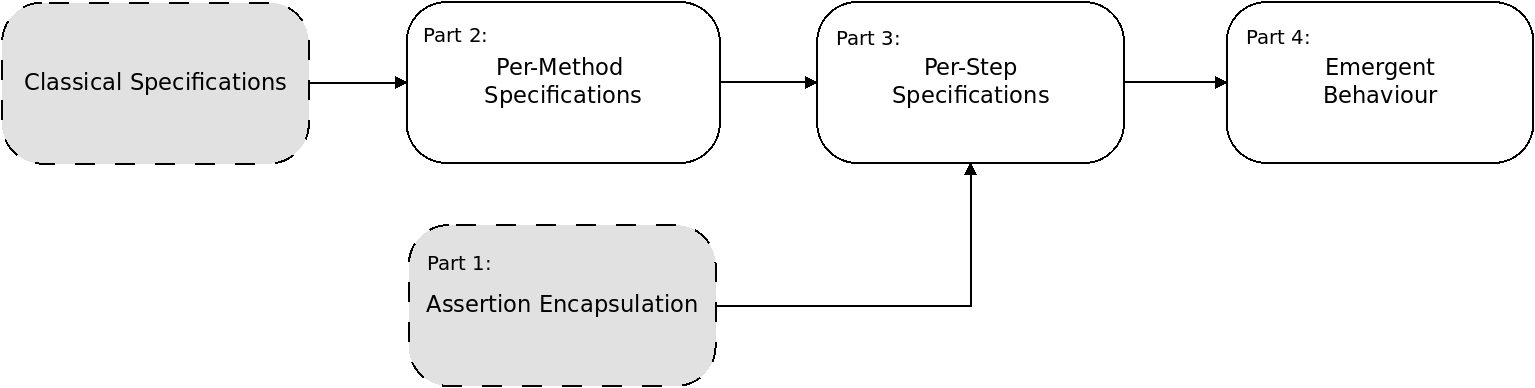
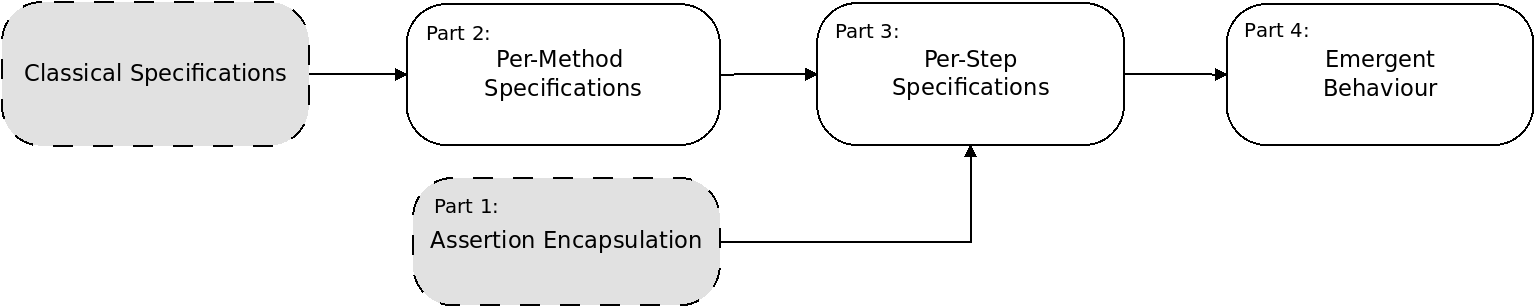
changed 2.4 -> bottom up, connections to 1.2, fixed diagram

diff --git a/popl2022/approach.tex b/popl2022/approach.tex
@@ -319,35 +319,21 @@ Note that we do not support calls from
 
 %\jm[]{Julian Proposal >>>>>>>>>>>>>>>>>>>>>}
 
-We now give a sketch of the novel concepts we developed in  \Nec logic, 
-and how they fit in with existing work in the area.
+We now give a sketch of \jm[]{how the novel concepts we developed in  \Nec logic, 
+and mentioned in \S \ref{intro:this:work} interact with each other to allow us to reason about 
+necessary conditions and emergent behaviour. \Nec logic in this 
+paper is presented bottom up, starting with specifications of individual methods
+in isolation, building up to proofs of emergent behaviour.
+While this is how \Nec logic is structured, it is not necessarily how 
+humans think about proofs. This section aims to provide a perspective of the 
+structure of the logic.}
 \jm[]{
 \Nec logic consists of 4 components:
 \begin{description}
-\item[Part 1: Emergent behaviour] \ {is behaviour that arises out 
-of any number of steps and interactions with a module interface.}
-We infer the \emph{emergent} behaviour out of the conditions of  \sd{several}
-single steps. More in \S\ref{s:emergent-proof}.
- \item[Part 2: Single-step conditions] are
- necessary conditions for a given  effect and
-a single, \emph{unspecified} step. This step could be an internal call, or any kind of external step.
-  % 
-    For effects encapsulated by $M$, we can infer such single-step
- conditions by combining the per-method conditions for that effect from 
-all   methods in $M$. More in \S\ref{s:module-proof}.
-\item[Part 3: Per-method conditions]   % \emph{per-method-condition}, \ie., a 
-are  necessary conditions for   given  effect and
-  given single, specified, method call. 
-To infer these, we  leverage   sufficient conditions 
-from classical specifications: % Namely, if 
-If the negation of a method's
- classical postcondition implies  a given effect, %the effect we are interested in,
-  then the negation of the 
- classical precondition  is a necessary precondition for the effect and the method call. 
-More in \S\ref{s:classical-proof}. 
-\item[Part 4: Assertion Encapsulation.]  
-% \scd{We  introduce the concept} of  \emph{assertion  encapulation}: 
-% \scd{We define that an}
+\item[Part 1: Assertion Encapsulation.] 
+We conceptually split the concept of \emph{Assertion Encapsulation} 
+from the \emph{Per-Step Specifications} described in \S \ref{intro:this:work}
+and the first part of a \Nec logic proof.
 An assertion $A$  is
 \emph{encapsulated} by  module $M$, if  $A$ can be invalidated only through
  % $M$-\internalC calls. 
@@ -358,18 +344,37 @@ Our \Nec logic  is parametric with respect to the
 particular encapsulation
 mechanism: here we rely on rudimentary annotations inspired by confinement types
 \cite{confined}.
+\item[Part 2: Per-method conditions]   % \emph{per-method-condition}, \ie., a 
+are  necessary conditions for   given  effect and
+  given single, specified, method call. 
+To infer these, we  leverage   sufficient conditions 
+from classical specifications: % Namely, if 
+If the negation of a method's
+ classical postcondition implies  a given effect, %the effect we are interested in,
+  then the negation of the 
+ classical precondition  is a necessary precondition for the effect and the method call. 
+More in \S\ref{s:classical-proof}. 
+ \item[Part 3: Single-step conditions] are
+ necessary conditions for a given  effect and
+a single, \emph{unspecified} step. This step could be an internal call, or any kind of external step.
+    For effects encapsulated by $M$, we can infer such single-step
+ conditions by combining the per-method conditions for that effect from 
+all   methods in $M$. More in \S\ref{s:module-proof}.
+\item[Part 4: Emergent behaviour] \
+We infer the \emph{emergent} behaviour out of the conditions of  \sd{several}
+single steps. More in \S\ref{s:emergent-proof}.
 \end{description}
 }
 
-\jm[]{These parts are dependent on each other. 
-While the above formulation is presented top down,
-proofs are built up from the bottom up. Fig. \ref{fig:dependency}
-demonstrates the dependencies of the different components of the
-proof system.}
-\begin{figure}[h]
-\includegraphics[width=\textwidth]{diagrams/dependency.png}
+\jm[]{These parts are dependent on each other, along with an 
+assumed logic for proving classical pre- and postconditions.
+These dependencies are shown in Fig. \ref{fig:dependency}.}
+\begin{figure}[thb]
+\includegraphics[width=0.9\textwidth]{diagrams/dependency.png}
    \caption{
-   Components of \Nec Logic \sd{and their Dependencies}.   
+   Components of \Nec Logic \sd{and their Dependencies}. 
+   Note that gray components with a dashed border indicate
+   components that are not included in this paper.
     }
    \label{fig:dependency}
  \end{figure}
